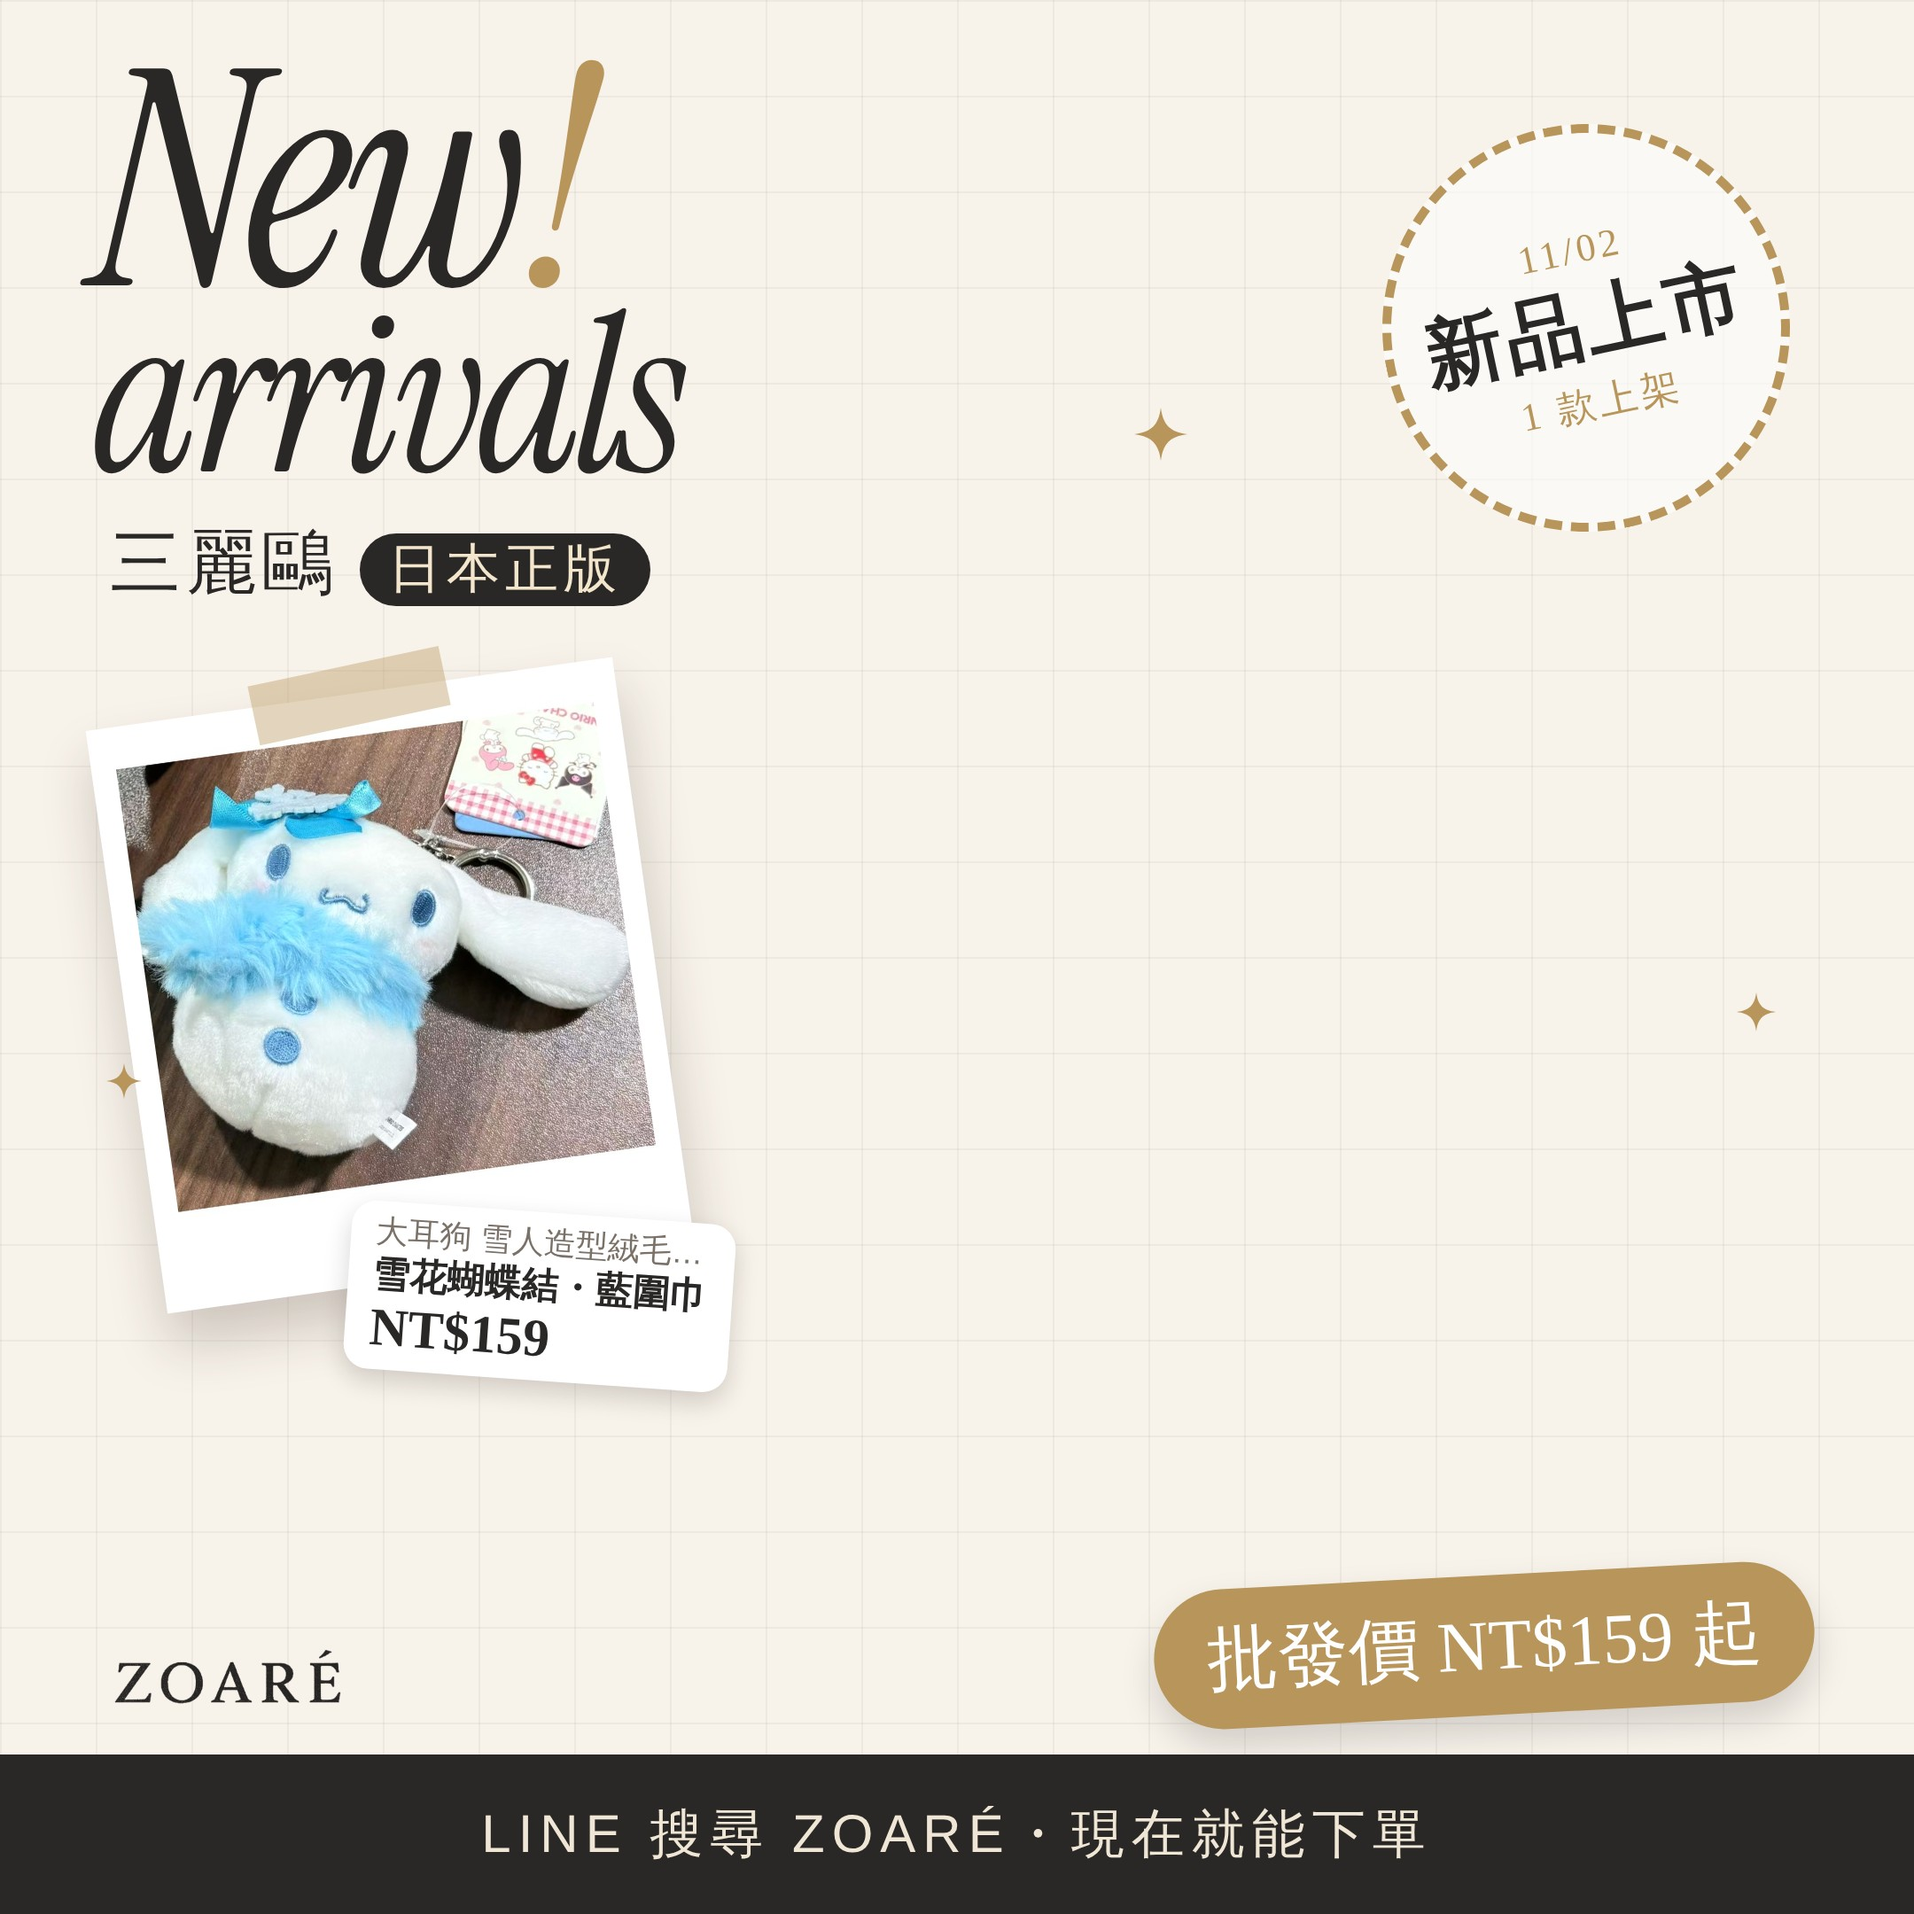
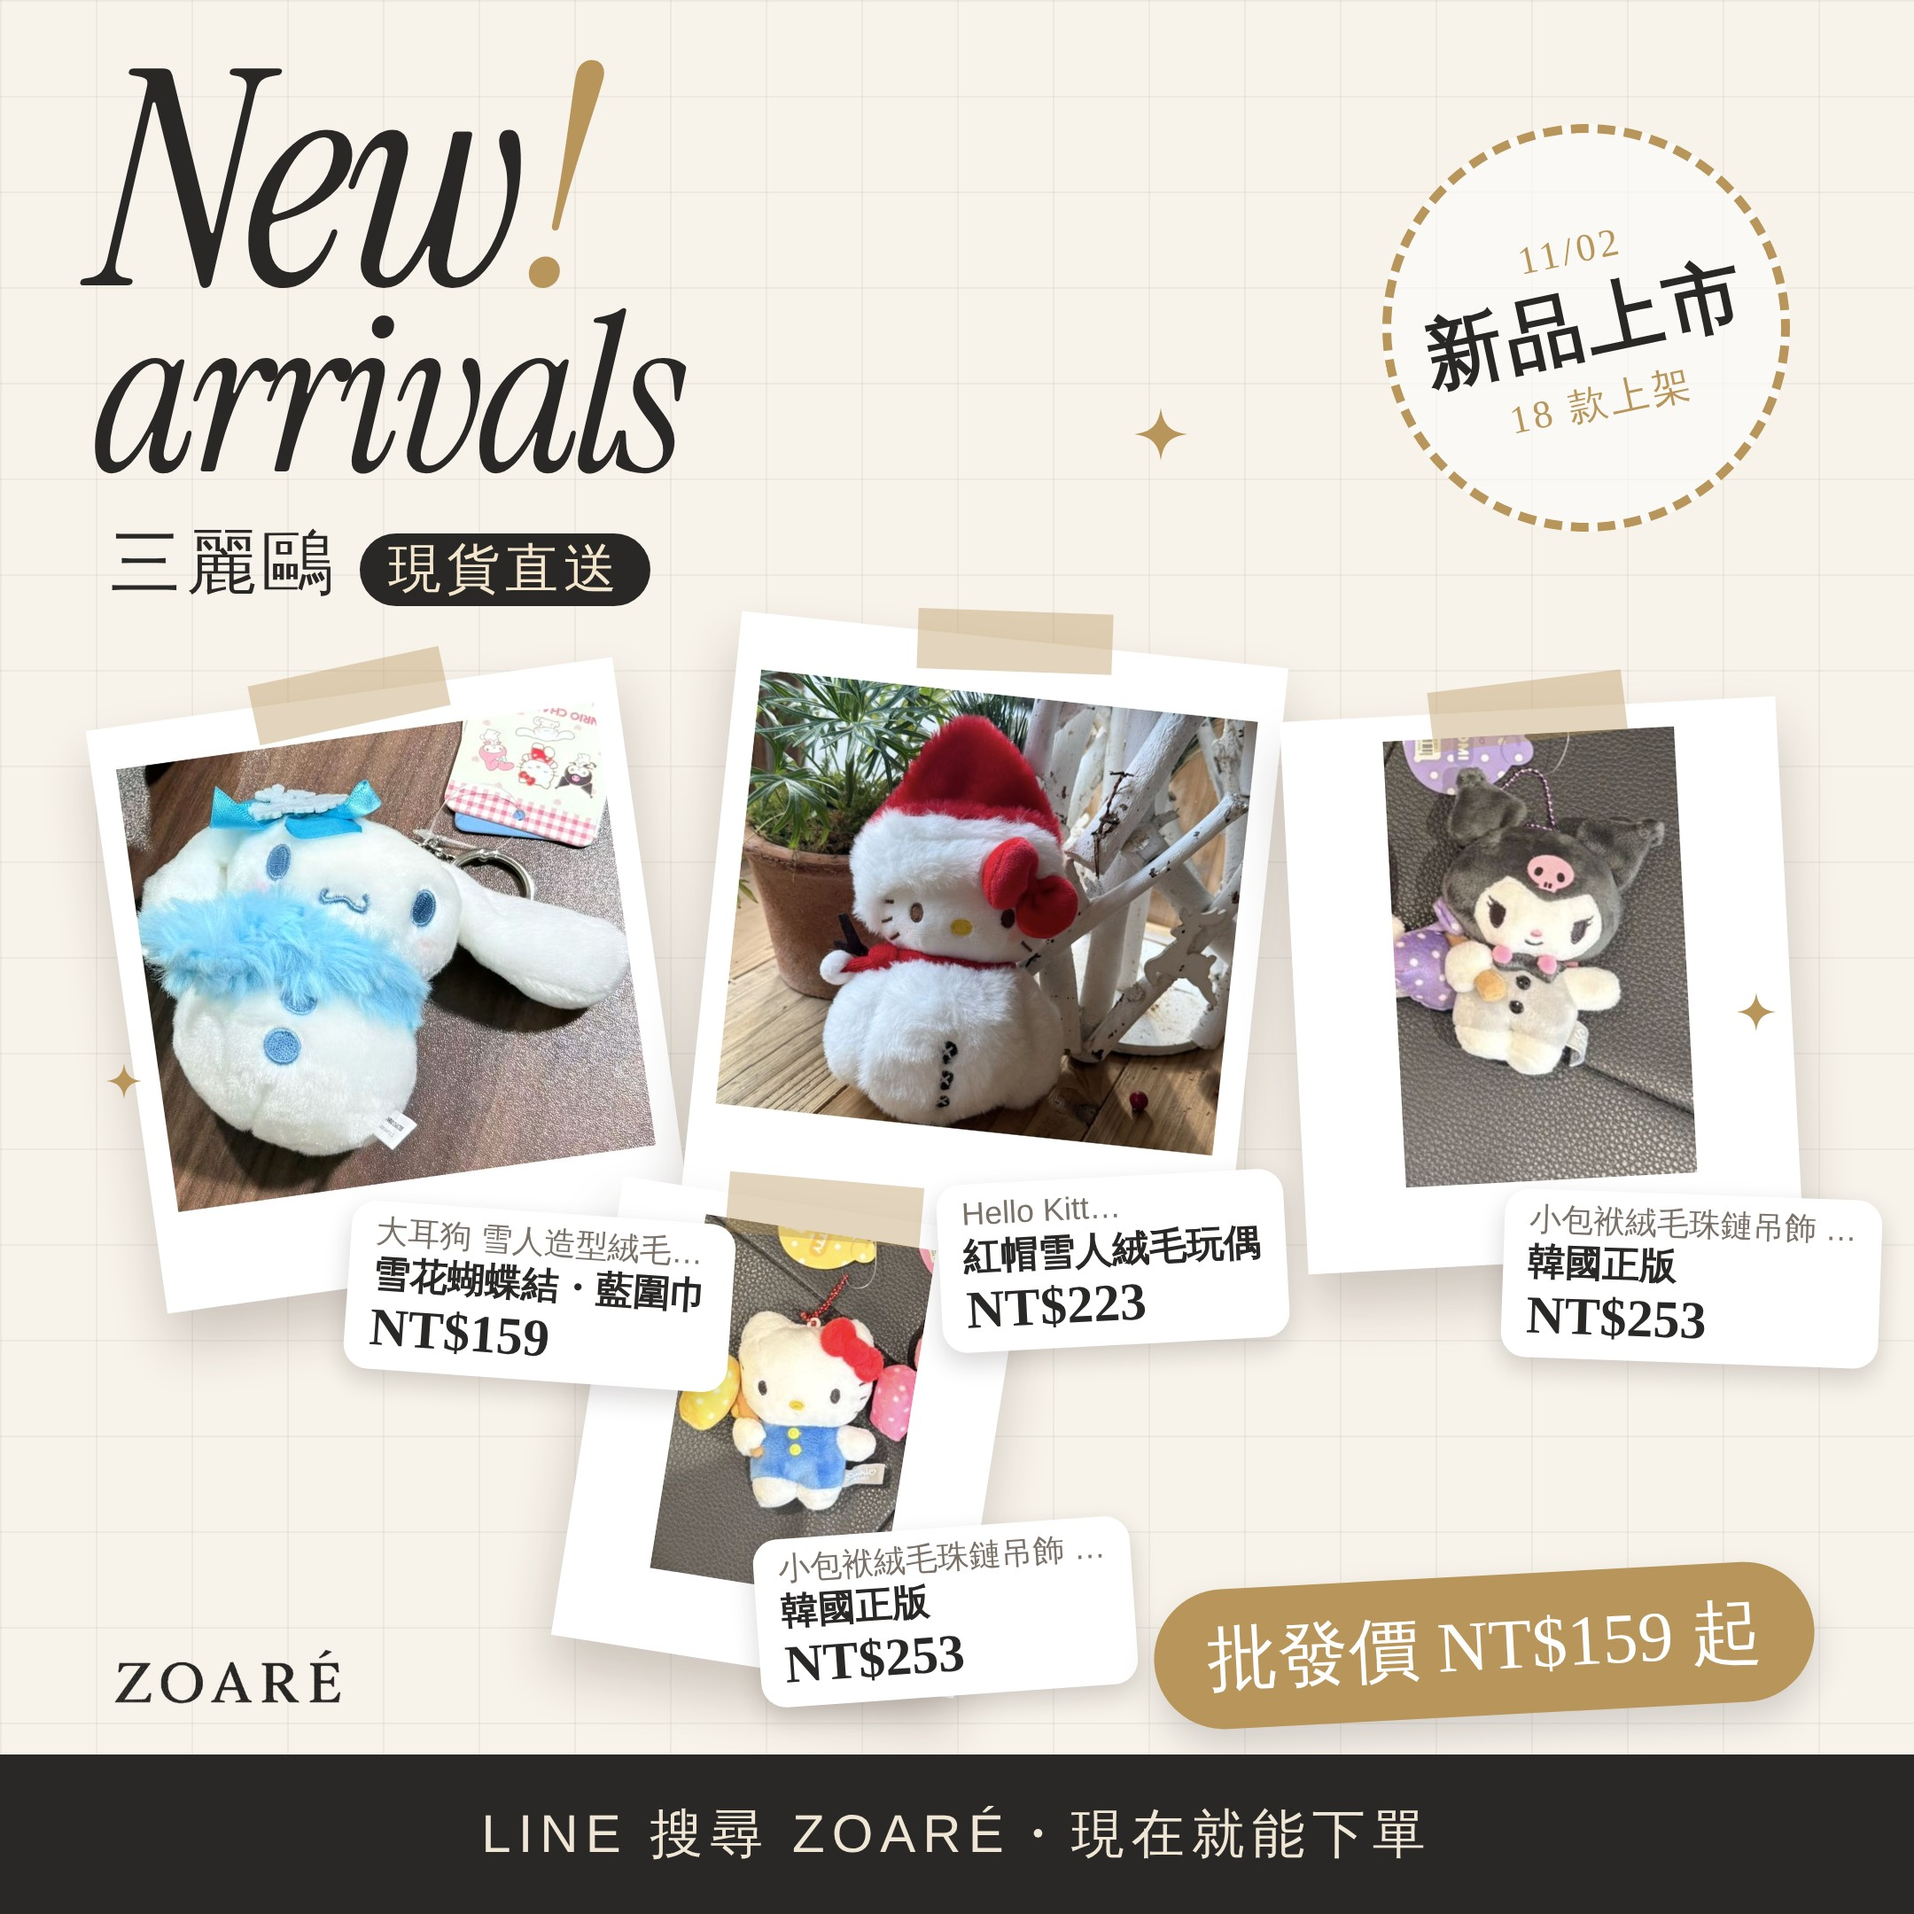
新品宣傳圖依出貨地標示（日本正版／韓國正版／現貨直送）
Claude-Session: https://claude.ai/code/session_01AQ8Wd57HiUH89BJX3KnLGT

diff --git a/tools/promo_gen.py b/tools/promo_gen.py
@@ -112,7 +112,7 @@ def prep(items):
     out = []
     for x in items:
         p = local(x)
-        if p: out.append({**cutout(p), 'n': x['n'], 'g': x['g'], 'k': x.get('k', '')})
+        if p: out.append({**cutout(p), 'n': x['n'], 'g': x['g'], 'k': x.get('k', ''), 'org': x.get('org') or ('cn' if (x.get('pb') or {}).get('c') == 'CNY' else 'jp')})
     return out
 
 # ---------- 版型 ----------
@@ -283,6 +283,8 @@ STYLES = [tpl_grid, tpl_arch, tpl_plate, tpl_collage4]
 def tpl_new(brand_show, P, price, count, date):
     dk, ac, lt = '#2A2826', '#B8955A', '#FFFDF9'
     boxes = [(70, 390, 300), (400, 360, 310), (730, 400, 280), (330, 680, 230)]
+    orgs = {x.get('org', 'jp') for x in P}
+    badge = {'jp': '日本正版', 'kr': '韓國正版', 'cn': '現貨直送'}[orgs.pop()] if len(orgs) == 1 else '現貨直送'
     return f'''<html><head><meta charset="utf-8"><style>{ff()}{BASE}
 body{{background:#F7F2EA}}
 .grid{{position:absolute;inset:0;background-image:linear-gradient(#0000000a 1px,transparent 1px),linear-gradient(90deg,#0000000a 1px,transparent 1px);background-size:54px 54px}}
@@ -298,7 +300,7 @@ body{{background:#F7F2EA}}
 </style></head><body><div class="grid"></div>
 <div class="new">New<em>!</em><br><span style="font-size:124px">arrivals</span></div>
 <div class="stamp"><small>{date[5:].replace('-', '/')}</small><b>新品上市</b><small>{count} 款上架</small></div>
-<div class="sub">{brand_show}<span>日本正版</span></div>
+<div class="sub">{brand_show}<span>{badge}</span></div>
 {prod_html(P, boxes, ac)}
 {stars(ac, [(640, 230, 30), (980, 560, 22), (60, 600, 20)])}
 <div class="wm">{LOGO("dark", 32)}</div><div class="price">批發價 NT${price} 起</div>
